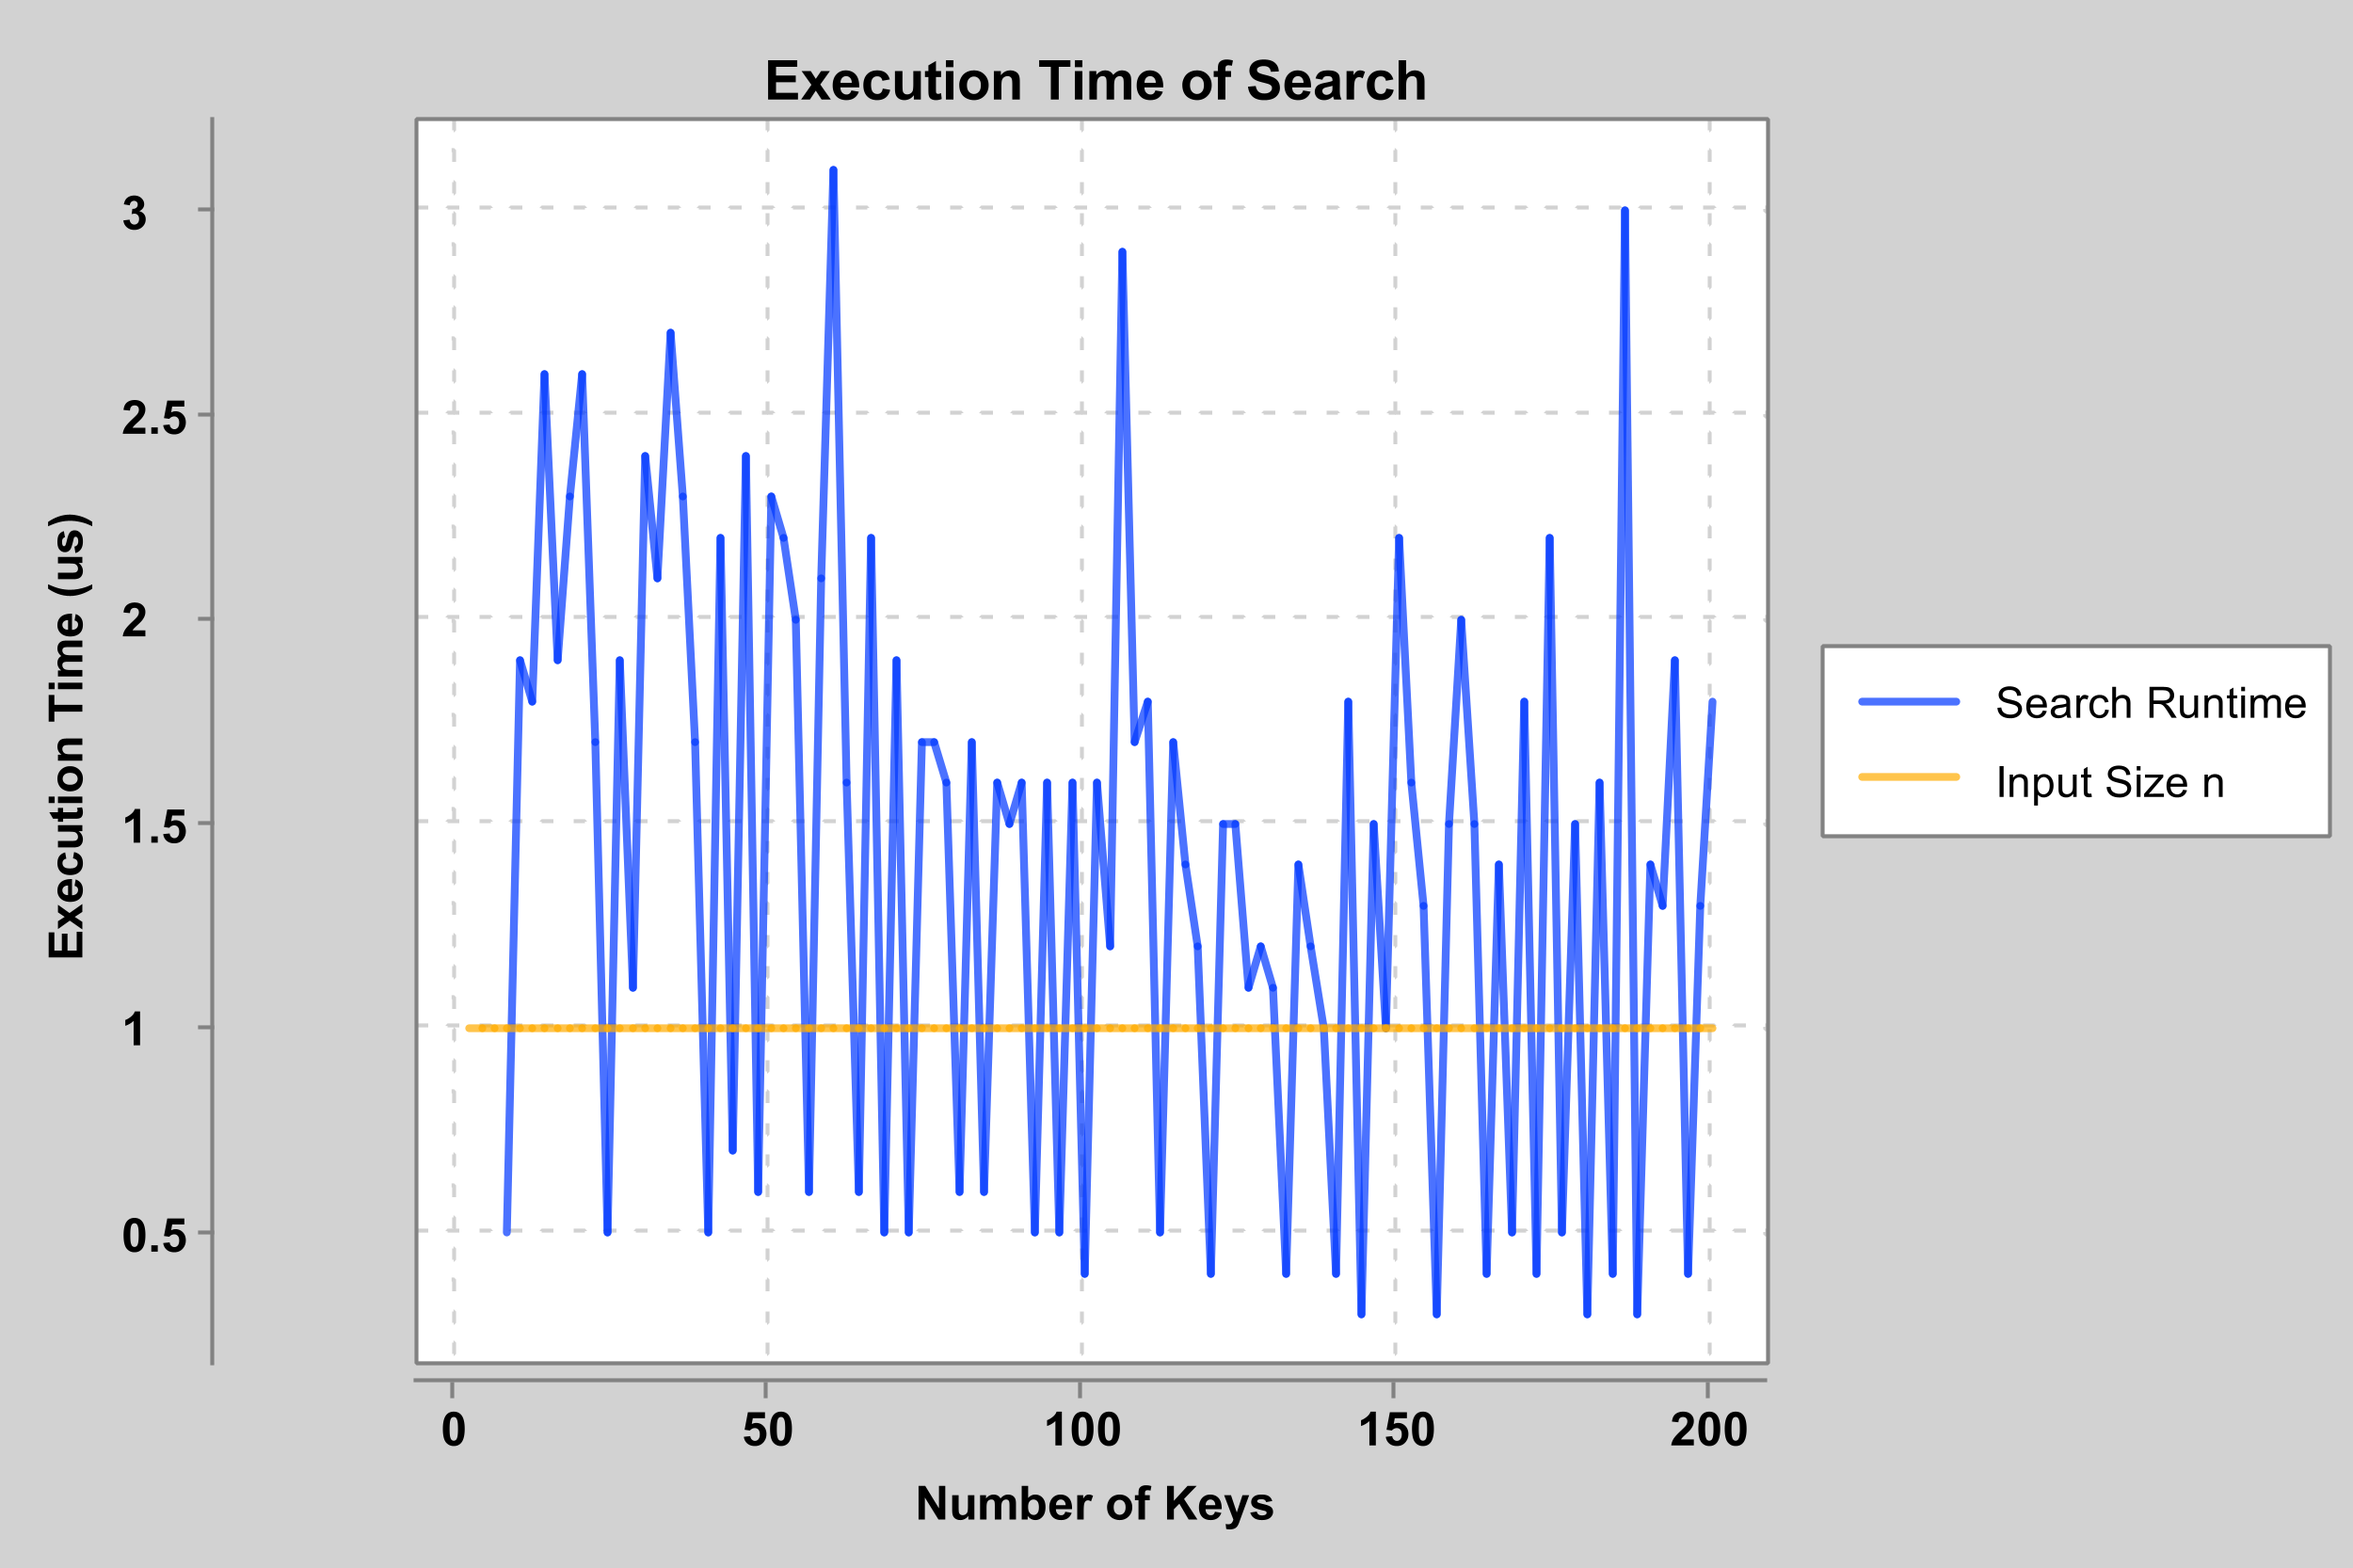
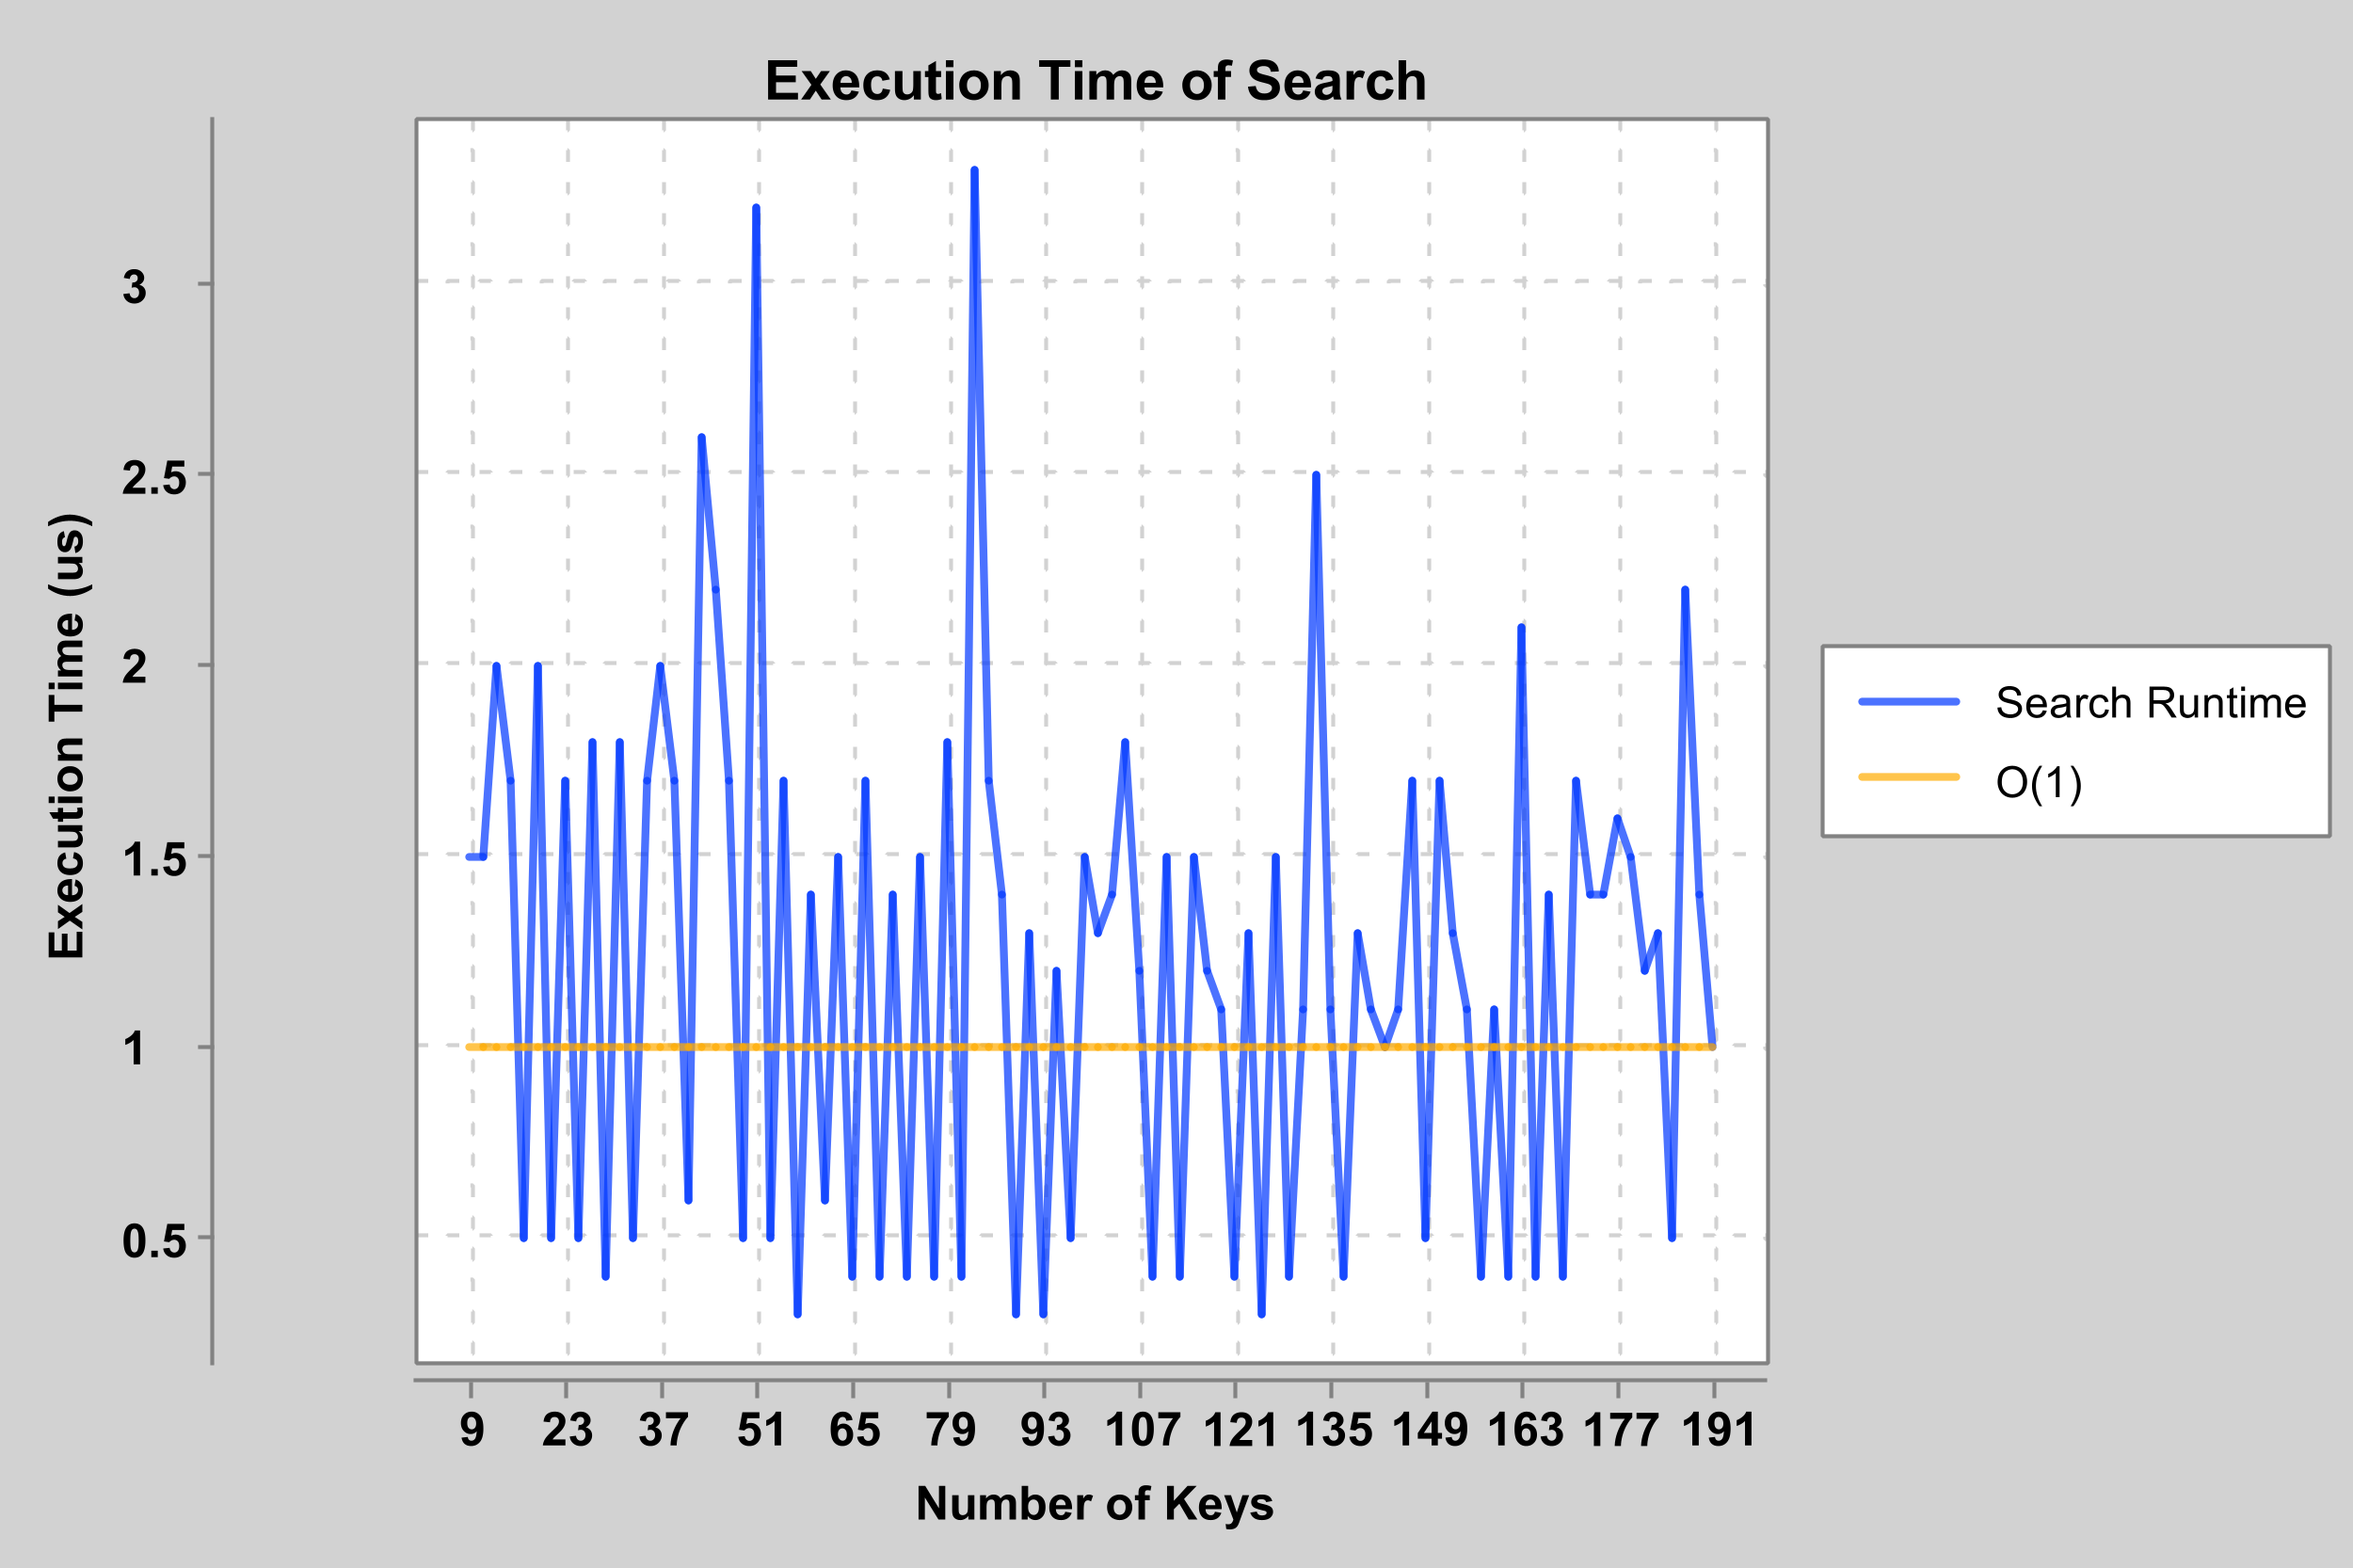
done

diff --git a/Proofs_Project/ProofProjectKara.java b/Proofs_Project/ProofProjectKara.java
@@ -80,17 +80,17 @@ public class ProofProjectKara {
         //         System.out.println("i: "+ j+" key:"+ k[j]+ " time:"+ execution_times[j]+ " size:"+ inputSize[j]);
         //     }
         // }
-        double[] exec = Arrays.copyOfRange(execution_times, 2, execution_times.length);
-        double[] size = Arrays.copyOfRange(inputSize, 2, inputSize.length);
+        double[] exec = Arrays.copyOfRange(execution_times, 3, 95);
+        double[] size = Arrays.copyOfRange(inputSize, 3, 95);
         // create chart
         XYChart chart = QuickChart.getChart("Execution Time of Search", "Number of Keys", "Execution Time (us)", "Search Runtime", size, exec);
         
-        double[] ones = new double[samples];
+        double[] ones = new double[92];
         for(int d=0; d<ones.length; d++){
             ones[d]=1;
         }
         //add reference O(n)
-        chart.addSeries("Input Size n", inputSize, ones).setMarker(SeriesMarkers.NONE); 
+        chart.addSeries("O(1)", size, ones).setMarker(SeriesMarkers.NONE); 
         // display chart
         new SwingWrapper<>(chart).displayChart();
         
